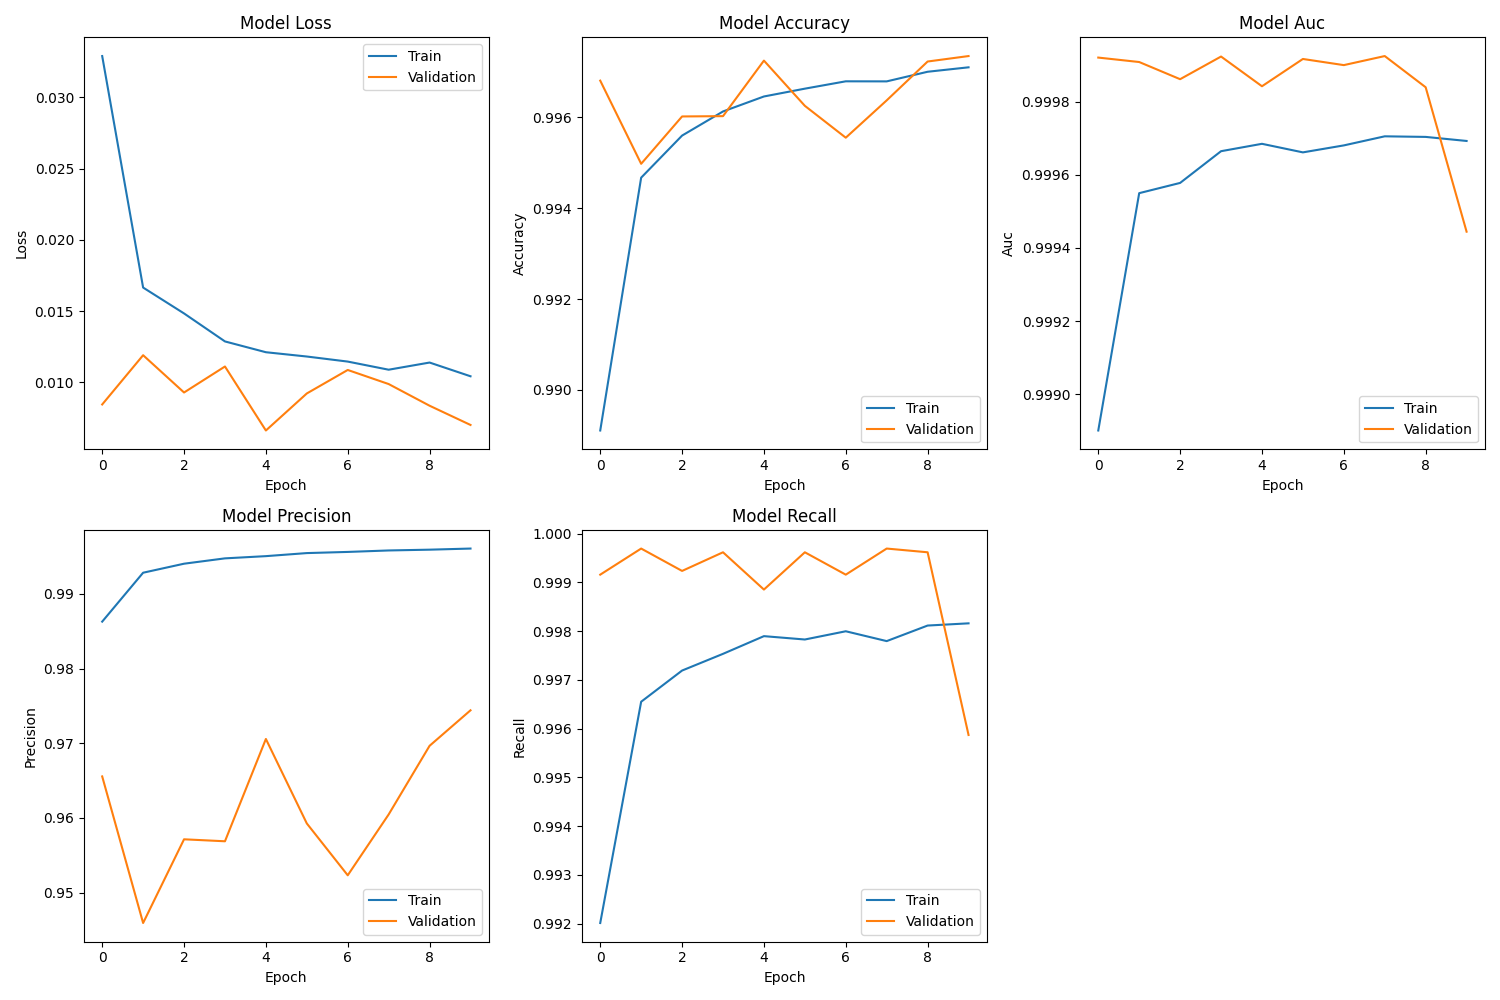
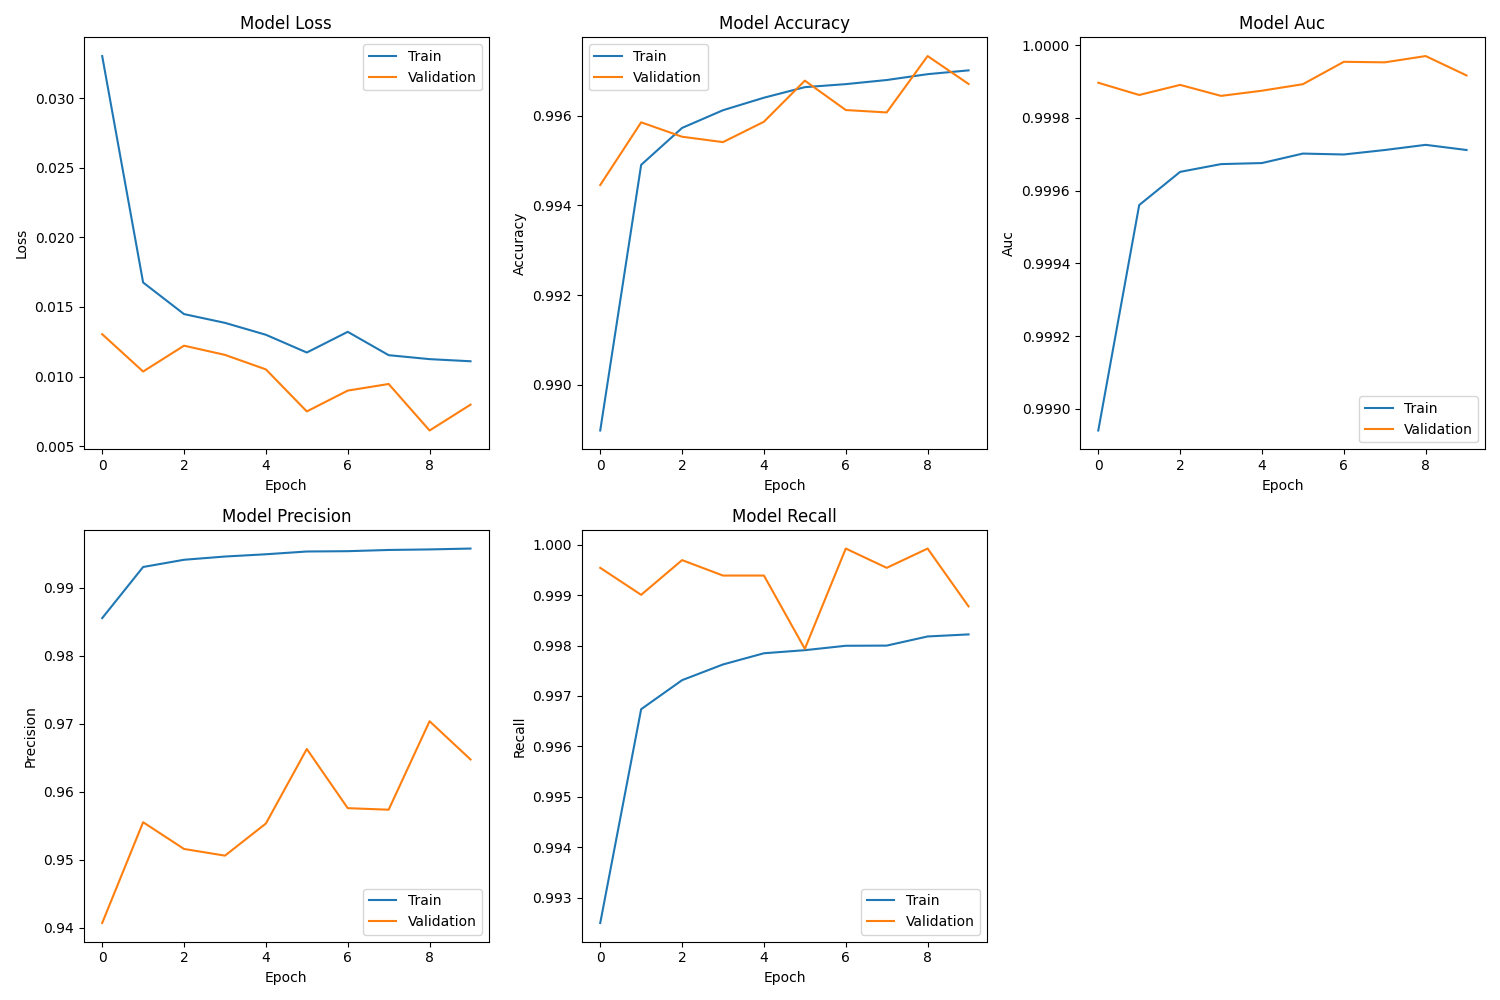
chnaged train_model.py

diff --git a/src/train_model.py b/src/train_model.py
@@ -5,11 +5,6 @@ import tensorflow as tf
 from sklearn.model_selection import train_test_split
 from sklearn.preprocessing import StandardScaler
 from imblearn.over_sampling import SMOTE
-import seaborn as sns
-import matplotlib.pyplot as plt
-from keras.models import Sequential
-from keras.layers import Dense, Dropout
-from keras.callbacks import EarlyStopping, ModelCheckpoint
 import pickle
 import os
 
@@ -20,150 +15,107 @@ class FraudDetectionModel:
         self.history = None
     
     def create_model(self, input_dim):
-        """Create a deep neural network model"""
-        model = Sequential([
-            # Input layer
-            Dense(64, activation='relu', input_dim=input_dim),
-            Dropout(0.3),
+        """Create a deep neural network model with better probability distribution"""
+        model = tf.keras.Sequential([
+            # Input layer with L2 regularization
+            tf.keras.layers.Dense(
+                32, 
+                activation='relu',
+                input_dim=input_dim,
+                kernel_regularizer=tf.keras.regularizers.l2(0.01)
+            ),
+            tf.keras.layers.BatchNormalization(),
+            tf.keras.layers.Dropout(0.2),
             
-            # Hidden layers
-            Dense(32, activation='relu'),
-            Dropout(0.2),
-            Dense(16, activation='relu'),
-            Dropout(0.2),
+            # Hidden layer 1
+            tf.keras.layers.Dense(
+                16, 
+                activation='relu',
+                kernel_regularizer=tf.keras.regularizers.l2(0.01)
+            ),
+            tf.keras.layers.BatchNormalization(),
+            tf.keras.layers.Dropout(0.2),
             
-            # Output layer
-            Dense(1, activation='sigmoid')
+            # Hidden layer 2 with smaller size
+            tf.keras.layers.Dense(
+                8, 
+                activation='relu',
+                kernel_regularizer=tf.keras.regularizers.l2(0.01)
+            ),
+            tf.keras.layers.BatchNormalization(),
+            tf.keras.layers.Dropout(0.1),
+            
+            # Output layer with reduced complexity
+            tf.keras.layers.Dense(1, activation='sigmoid')
         ])
         
+        # Use a lower learning rate
+        optimizer = tf.keras.optimizers.Adam(learning_rate=0.001)
+        
         model.compile(
-            optimizer='adam',
+            optimizer=optimizer,
             loss='binary_crossentropy',
-            metrics=['accuracy', tf.keras.metrics.AUC(), tf.keras.metrics.Precision(), tf.keras.metrics.Recall()]
+            metrics=['accuracy', tf.keras.metrics.AUC()]
         )
         
         return model
 
-    def load_and_prepare_data(self, data_path):
-        """Load and prepare data for training"""
-        # Load data
+    def train(self, data_path):
+        # Load and prepare data
         df = pd.read_csv(data_path)
-        
-        # Create visualization directory if it doesn't exist
-        os.makedirs('visualizations', exist_ok=True)
-        
-        # Visualize class distribution
-        plt.figure(figsize=(8, 6))
-        df['fraud'].value_counts(normalize=True).plot(kind='bar')
-        plt.title('Distribution of Fraud vs Normal Transactions')
-        plt.savefig('visualizations/class_distribution.png')
-        plt.close()
-        
-        # Create correlation heatmap
-        plt.figure(figsize=(12, 8))
-        sns.heatmap(df.corr(), cmap='coolwarm', center=0)
-        plt.title('Feature Correlation Heatmap')
-        plt.tight_layout()
-        plt.savefig('visualizations/correlation_heatmap.png')
-        plt.close()
         
         # Separate features and target
         X = df.drop('fraud', axis=1)
         y = df['fraud']
         
-        # Split data into train, validation, and test sets
-        X_temp, X_test, y_temp, y_test = train_test_split(
-            X, y, test_size=0.15, random_state=42, stratify=y
-        )
-        
-        X_train, X_val, y_train, y_val = train_test_split(
-            X_temp, y_temp, test_size=0.176, random_state=42, stratify=y_temp
+        # Split data
+        X_train, X_test, y_train, y_test = train_test_split(
+            X, y, test_size=0.2, random_state=42, stratify=y
         )
         
         # Scale features
         X_train_scaled = self.scaler.fit_transform(X_train)
-        X_val_scaled = self.scaler.transform(X_val)
         X_test_scaled = self.scaler.transform(X_test)
         
-        # Apply SMOTE to training data only
-        smote = SMOTE(random_state=42)
+        # Apply SMOTE with lower sampling_strategy
+        smote = SMOTE(sampling_strategy=0.5, random_state=42)  # Create minority class at 50% of majority
         X_train_balanced, y_train_balanced = smote.fit_resample(X_train_scaled, y_train)
         
-        return (X_train_balanced, y_train_balanced, 
-                X_val_scaled, y_val,
-                X_test_scaled, y_test)
-
-    def train(self, data_path):
-        """Train the model"""
-        # Prepare data
-        (X_train_balanced, y_train_balanced,
-         X_val_scaled, y_val,
-         X_test_scaled, y_test) = self.load_and_prepare_data(data_path)
-        
-        # Create model
+        # Create and train model
         self.model = self.create_model(X_train_balanced.shape[1])
         
-        # Define callbacks
-        early_stopping = EarlyStopping(
+        # Add early stopping with higher patience
+        early_stopping = tf.keras.callbacks.EarlyStopping(
             monitor='val_loss',
-            patience=5,
+            patience=10,
             restore_best_weights=True
         )
         
-        model_checkpoint = ModelCheckpoint(
-            'model/best_model.h5',
-            monitor='val_loss',
-            save_best_only=True
-        )
+        # Train with class weights to handle imbalance
+        class_weight = {0: 1., 1: 2.}  # Give more weight to fraud class
         
-        # Train model
         self.history = self.model.fit(
-            X_train_balanced, y_train_balanced,
-            validation_data=(X_val_scaled, y_val),
-            epochs=50,
-            batch_size=32,
-            callbacks=[early_stopping, model_checkpoint]
+            X_train_balanced,
+            y_train_balanced,
+            epochs=5,
+            batch_size=64,
+            validation_split=0.2,
+            callbacks=[early_stopping],
+            class_weight=class_weight,
+            verbose=1
         )
         
-        # Plot training history
-        self.plot_training_history()
-        
-        # Evaluate on test set
-        test_results = self.model.evaluate(X_test_scaled, y_test)
-        print("\nTest Set Results:")
-        for metric, value in zip(self.model.metrics_names, test_results):
-            print(f"{metric}: {value:.4f}")
-        
-        # Save the scaler
+        # Save model and scaler
+        self.model.save('model/best_model.h5')
         with open('model/scaler.pkl', 'wb') as f:
             pickle.dump(self.scaler, f)
-    
-    def plot_training_history(self):
-        """Plot training metrics"""
-        metrics = ['loss', 'accuracy', 'auc', 'precision', 'recall']
-        plt.figure(figsize=(15, 10))
         
-        for i, metric in enumerate(metrics, 1):
-            plt.subplot(2, 3, i)
-            plt.plot(self.history.history[metric], label='Train')
-            plt.plot(self.history.history[f'val_{metric}'], label='Validation')
-            plt.title(f'Model {metric.capitalize()}')
-            plt.xlabel('Epoch')
-            plt.ylabel(metric.capitalize())
-            plt.legend()
-        
-        plt.tight_layout()
-        plt.savefig('visualizations/training_history.png')
-        plt.close()
-
-def main():
-    # Create directories if they don't exist
-    os.makedirs('model', exist_ok=True)
-    os.makedirs('visualizations', exist_ok=True)
-    
-    # Initialize and train model
-    fraud_detector = FraudDetectionModel()
-    fraud_detector.train('data/card_transdata.csv')
+        # Test predictions
+        test_pred_probs = self.model.predict(X_test_scaled)
+        print("\nSample of prediction probabilities:")
+        print(test_pred_probs[:10])
 
 if __name__ == "__main__":
-    main()
+    os.makedirs('models', exist_ok=True)
+    model = FraudDetectionModel()
+    model.train('data/card_transdata.csv')

diff --git a/app.py b/app.py
@@ -1,9 +1,10 @@
+# app.py
 import streamlit as st
 import pandas as pd
 import numpy as np
+import tensorflow as tf
 import pickle
 from PIL import Image
-import tensorflow as tf
 from src.preprocessor import CreditCardPreprocessor
 import os
 
@@ -107,9 +108,10 @@ def main():
         # Scale the input
         input_scaled = scaler.transform(input_data)
         
-        # Make prediction
-        prediction = model.predict(input_scaled)[0]
-        probability = model.predict_proba(input_scaled)[0][1]
+        # Make prediction using Keras model
+        prediction_prob = model.predict(input_scaled, verbose=0)  # Get probability
+        prediction = (prediction_prob >= 0.5).astype(int)[0][0]  # Convert to binary prediction
+        probability = prediction_prob[0][0]  # Get the probability value
         
         # Show prediction
         st.subheader('Analysis Result')
